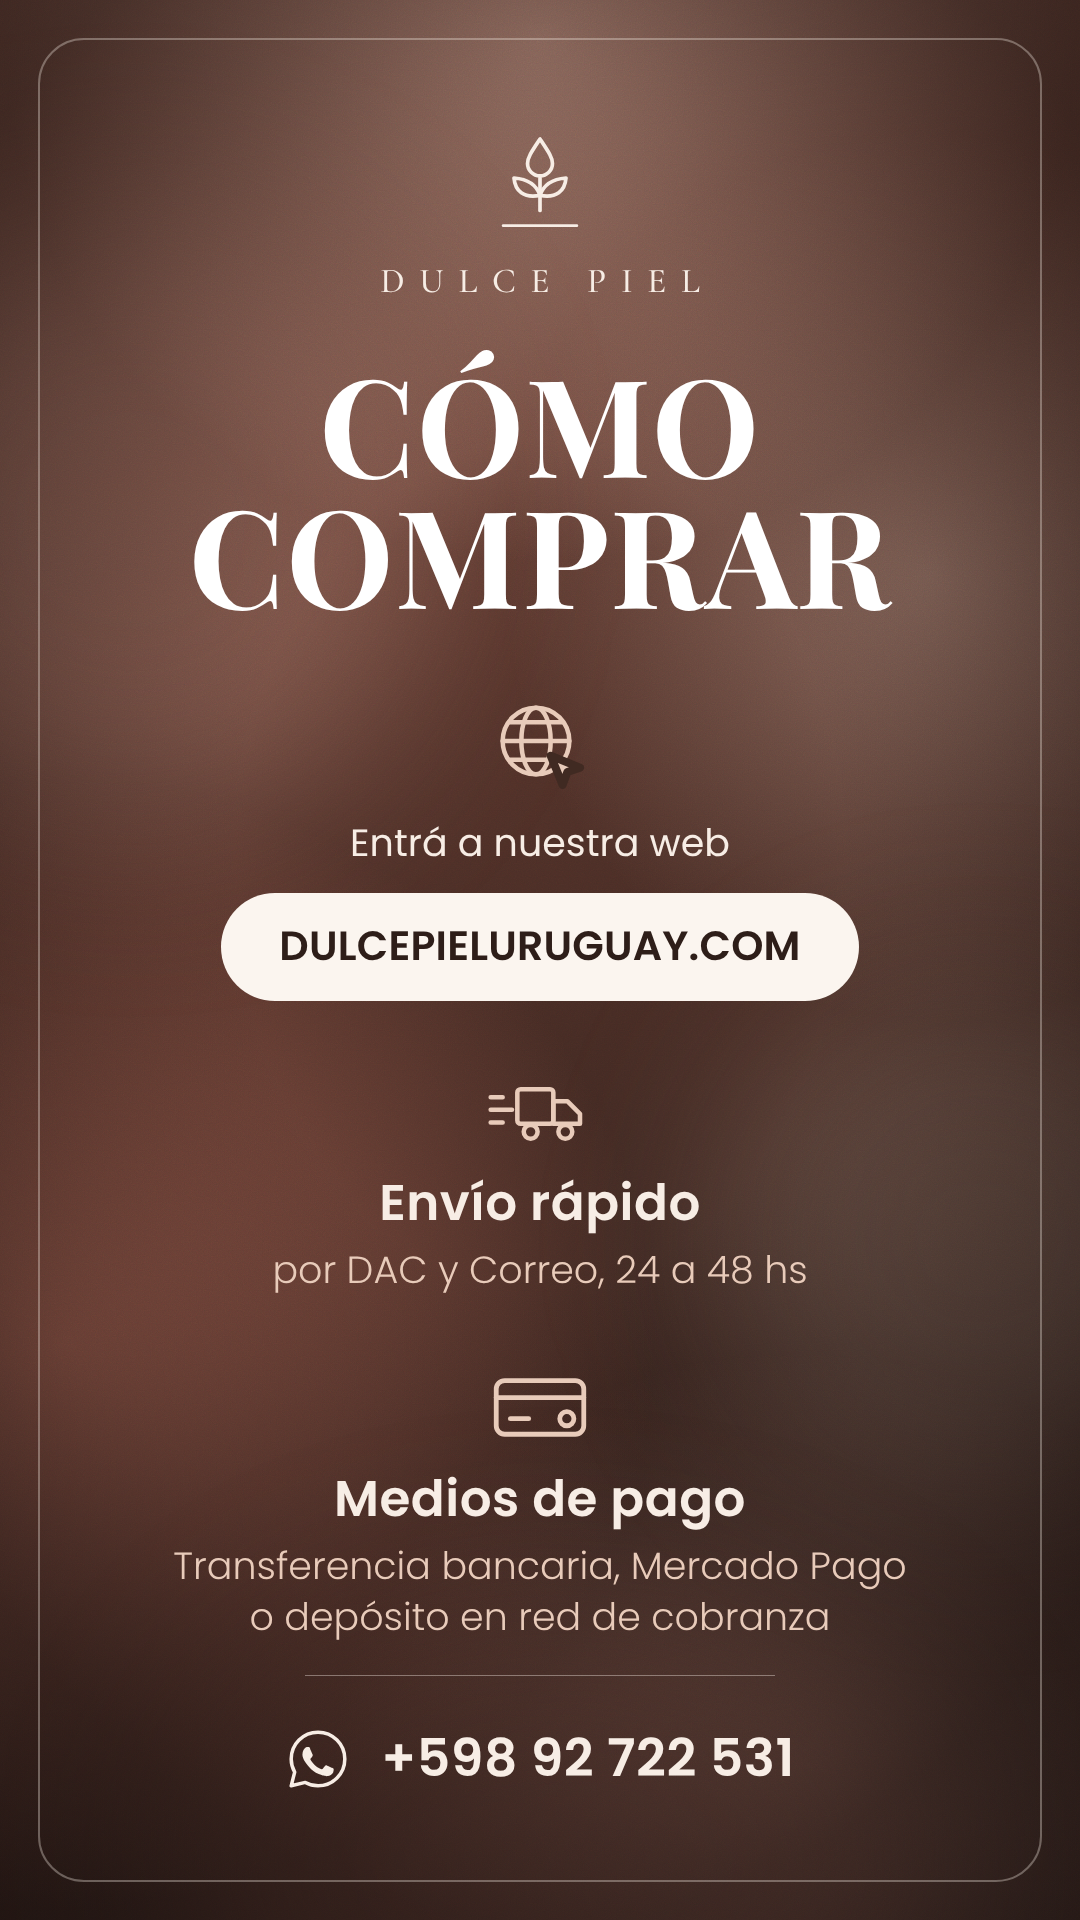
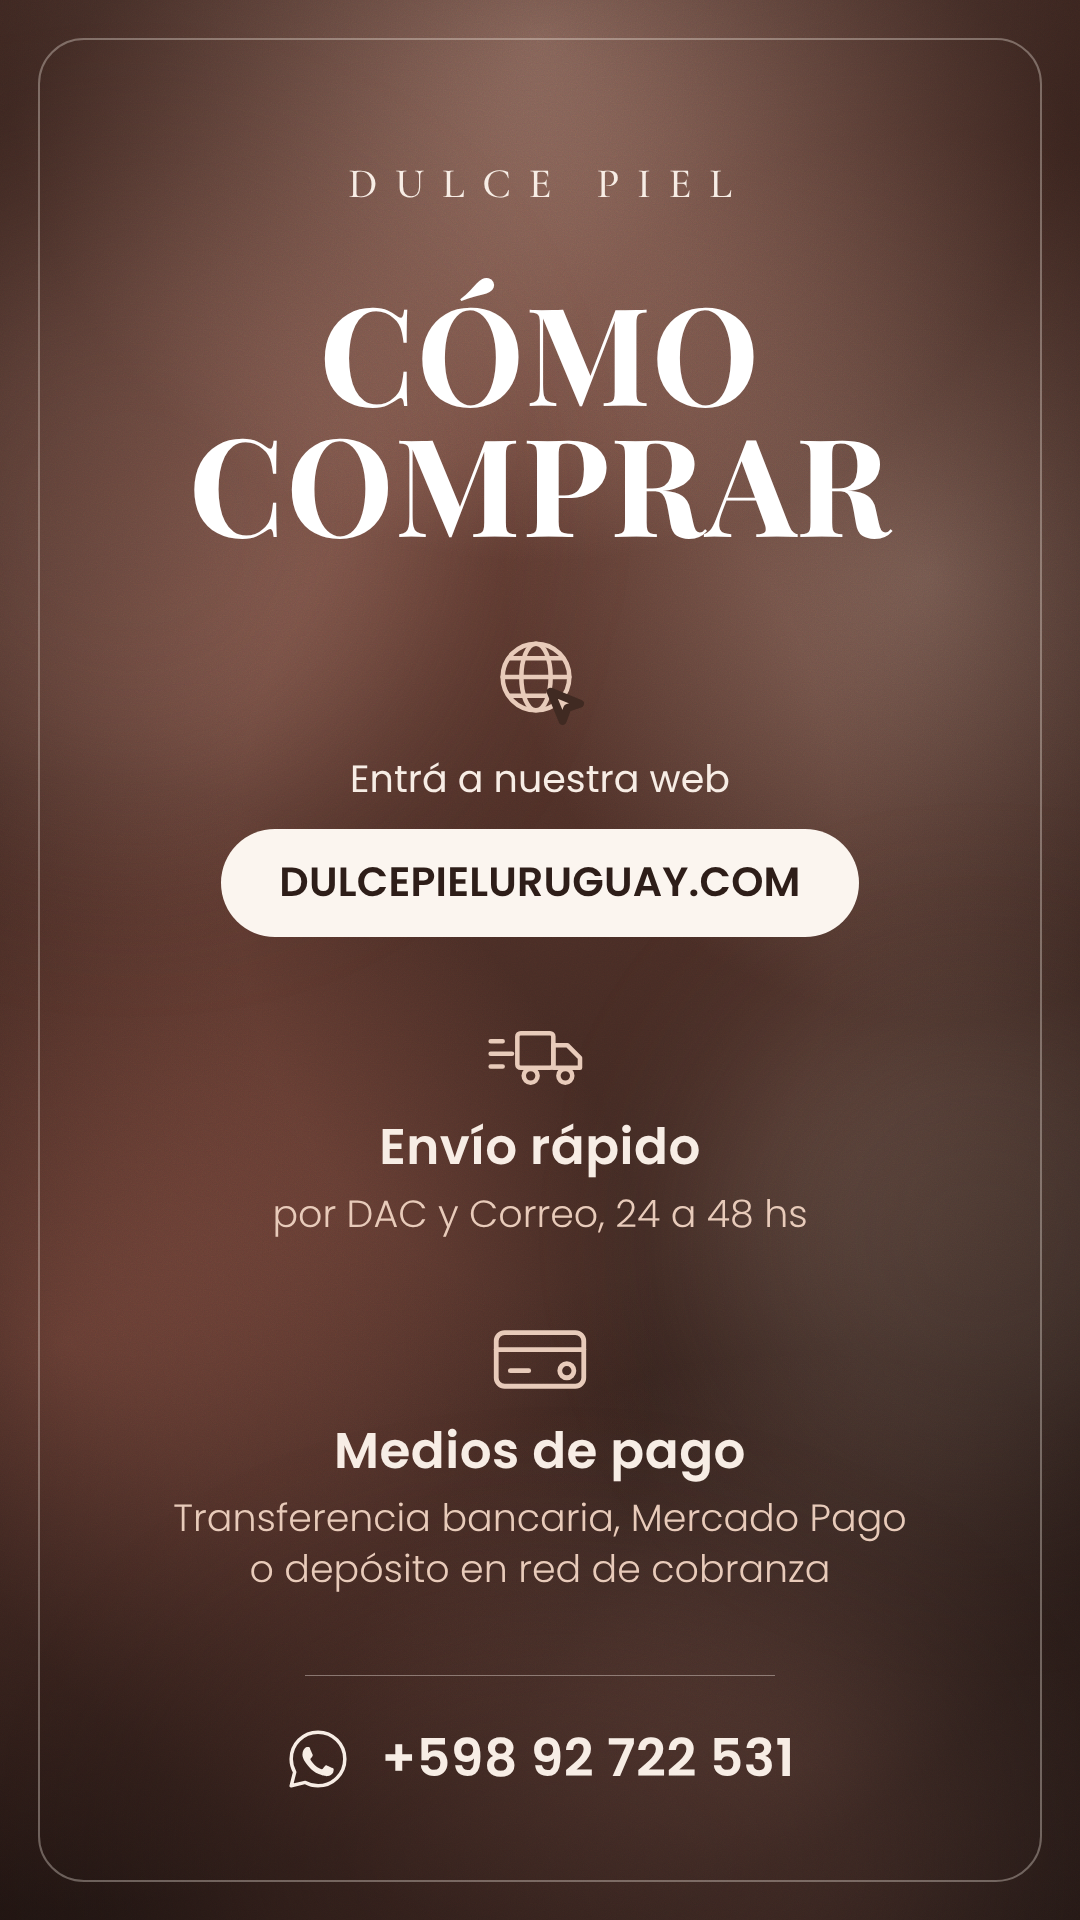
Sacar el isotipo: el logotipo pasa a ser sólo la palabra Dulce Piel
Las piezas quedan con el logotipo tipográfico, sin el dibujo de gota sobre
hojas. Se reequilibró el aire de arriba en las tres piezas que lo llevaban
(las dos historias y el posteo de feed) y se agrandó el cuerpo del logotipo
para que sostenga solo el encabezado.

marca.js queda únicamente con los iconos; el isotipo se elimina en lugar de
dejarlo sin uso.

Claude-Session: https://claude.ai/code/session_01MYHamuh9BYaZ382N2xsAww

Changed region(s): [[0.1528, 0.125, 0.825, 0.8438], [0.4583, 0.0625, 0.5194, 0.125], [0.6417, 0.3125, 0.6722, 0.3438]]

diff --git a/dulce-piel/marca.js b/dulce-piel/marca.js
@@ -1,23 +1,12 @@
 /* ==========================================================================
-   DULCE PIEL — Logotipo e iconografía
+   DULCE PIEL — Iconografía
    --------------------------------------------------------------------------
-   Un solo lugar para el logo y los iconos: cada pieza los pide con
-   <i data-dp="logo"></i> o <i data-dp="camion"></i> y este script los dibuja.
-   Para reemplazar el isotipo por el archivo original de la marca, basta con
-   cambiar el SVG de ISOTIPO.
+   Un solo lugar para los iconos: cada pieza los pide con
+   <i data-dp="camion"></i> y este script los dibuja.
+   El logotipo es sólo tipográfico (la palabra DULCE PIEL, clase .dp-marca en
+   marca.css): no lleva isotipo.
    ========================================================================== */
 (function () {
-  /* Isotipo: gota sobre hojas, con el filete inferior de la marca. */
-  var ISOTIPO = `
-    <svg viewBox="0 0 120 100" fill="none" stroke="currentColor"
-         stroke-width="3.4" stroke-linecap="round" stroke-linejoin="round">
-      <path d="M60 8c-8 12-11.5 17-11.5 22.5a11.5 11.5 0 0 0 23 0C71.5 25 68 20 60 8z"/>
-      <path d="M60 44v30"/>
-      <path d="M60 60c-3-9-11-15-24-16 1 12 9 19 24 16z"/>
-      <path d="M60 60c3-9 11-15 24-16-1 12-9 19-24 16z"/>
-      <path d="M26 88h68" stroke-width="2.6"/>
-    </svg>`;
-
   var ICONOS = {
     /* Globo terráqueo con cursor: "entrá a la web" */
     globo: `
@@ -99,7 +88,7 @@
   function pintar() {
     document.querySelectorAll('[data-dp]').forEach(function (nodo) {
       var clave = nodo.getAttribute('data-dp');
-      nodo.innerHTML = clave === 'logo' ? ISOTIPO : (ICONOS[clave] || '');
+      nodo.innerHTML = ICONOS[clave] || '';
       nodo.style.display = 'block';
       var svg = nodo.querySelector('svg');
       if (svg) { svg.style.width = '100%'; svg.style.height = '100%'; }

diff --git a/dulce-piel/piezas/05-envios-a-todo-el-pais.html b/dulce-piel/piezas/05-envios-a-todo-el-pais.html
@@ -8,16 +8,15 @@
   .contenido {
     position: absolute; inset: 38px;
     display: flex; flex-direction: column; align-items: center;
-    padding: 104px 92px 96px;
+    padding: 132px 92px 96px;
     text-align: center;
   }
-  .logo-iso   { width: 112px; height: 94px; color: var(--dp-crema); }
-  .logo-texto { margin-top: 20px; font-size: 32px; color: var(--dp-crema); }
+  .logo-texto { font-size: 40px; color: var(--dp-crema); }
 
-  .titulo { margin-top: 68px; font-size: 112px; color: #fff; }
+  .titulo { margin-top: 88px; font-size: 112px; color: #fff; }
 
   .tarjeta {
-    margin-top: 88px; width: 100%;
+    margin-top: 96px; width: 100%;
     background: var(--dp-crema-tibia); color: var(--dp-cacao);
     border-radius: 34px; padding: 58px 64px 54px;
     box-shadow: 0 34px 80px rgba(23,15,13,.28);
@@ -32,7 +31,7 @@
   .via  { font-size: 30px; color: rgba(46,30,25,.62); }
   .medios { margin-top: 12px; font-size: 56px; font-weight: 700; letter-spacing: .04em; }
 
-  .promesa   { margin-top: 80px; font-size: 52px; font-weight: 700;
+  .promesa   { margin-top: 88px; font-size: 52px; font-weight: 700;
                letter-spacing: .045em; text-indent: .045em; text-transform: uppercase; }
   .promesa-2 { margin-top: 16px; font-size: 38px; font-weight: 300; color: var(--dp-nude); }
 
@@ -58,7 +57,6 @@
   <div class="dp-marco"></div>
 
   <div class="contenido">
-    <i class="logo-iso" data-dp="logo"></i>
     <div class="dp-marca logo-texto">Dulce Piel</div>
 
     <h1 class="dp-titulo titulo">Envíos a<br>todo el país</h1>

diff --git a/dulce-piel/piezas/01-como-comprar.html b/dulce-piel/piezas/01-como-comprar.html
@@ -8,16 +8,15 @@
   .contenido {
     position: absolute; inset: 38px;
     display: flex; flex-direction: column; align-items: center;
-    padding: 92px 96px 84px;
+    padding: 126px 96px 84px;
     text-align: center;
   }
-  .logo-iso   { width: 130px; height: 109px; color: var(--dp-crema); }
-  .logo-texto { margin-top: 26px; font-size: 35px; color: var(--dp-crema); }
+  .logo-texto { font-size: 42px; color: var(--dp-crema); }
 
-  .titulo { margin-top: 58px; font-size: 136px; color: #fff; }
+  .titulo { margin-top: 80px; font-size: 136px; color: #fff; }
 
   .bloque { display: flex; flex-direction: column; align-items: center; }
-  .bloque + .bloque { margin-top: 76px; }
+  .bloque + .bloque { margin-top: 84px; }
   .icono { color: var(--dp-nude); --dp-cursor-borde: #402A22; }
 
   .etiqueta { margin-top: 28px; font-size: 38px; line-height: 1.2; font-weight: 400; color: var(--dp-crema); }
@@ -49,12 +48,11 @@
   <div class="dp-marco"></div>
 
   <div class="contenido">
-    <i class="logo-iso" data-dp="logo"></i>
     <div class="dp-marca logo-texto">Dulce Piel</div>
 
     <h1 class="dp-titulo titulo">Cómo<br>comprar</h1>
 
-    <div class="bloque" style="margin-top:78px">
+    <div class="bloque" style="margin-top:86px">
       <i class="icono" data-dp="globo" style="width:96px;height:96px"></i>
       <div class="etiqueta dp-apoyo">Entrá a nuestra web</div>
       <div class="dp-pildora pildora">DULCEPIELURUGUAY.COM</div>

diff --git a/dulce-piel/piezas/02-compra-en-la-web.html b/dulce-piel/piezas/02-compra-en-la-web.html
@@ -21,18 +21,17 @@
   .contenido {
     position: absolute; inset: 0;
     display: flex; flex-direction: column; align-items: center;
-    padding: 64px 78px 58px; text-align: center;
+    padding: 92px 78px 58px; text-align: center;
   }
 
-  .logo-iso   { width: 96px; height: 80px; color: var(--dp-rosa); }
-  .logo-texto { margin-top: 16px; font-size: 40px; color: var(--dp-cacao); }
+  .logo-texto { font-size: 48px; color: var(--dp-cacao); }
 
   .adorno { display: flex; align-items: center; gap: 16px; margin-top: 22px; }
   .adorno i { display: block; width: 118px; height: 1px; background: rgba(156,95,81,.45); }
   .adorno b { display: block; width: 9px; height: 9px; background: var(--dp-dorado);
               transform: rotate(45deg); }
 
-  .antetitulo { margin-top: 34px; font-size: 42px; font-weight: 500;
+  .antetitulo { margin-top: 42px; font-size: 42px; font-weight: 500;
                 letter-spacing: .34em; text-indent: .34em; text-transform: uppercase; }
   .titulo     { margin-top: 6px; font-family: var(--dp-font-display); font-weight: 700;
                 font-style: italic; font-size: 132px; line-height: 1.02;
@@ -100,7 +99,6 @@
   <div class="dp-grano" style="opacity:.10"></div>
 
   <div class="contenido">
-    <i class="logo-iso" data-dp="logo"></i>
     <div class="dp-marca logo-texto">Dulce Piel</div>
     <div class="adorno"><i></i><b></b><i></i></div>
 

diff --git a/dulce-piel/README.md b/dulce-piel/README.md
@@ -1,8 +1,8 @@
 # Dulce Piel — Piezas de Instagram
 
 Las mismas cinco piezas de Rancho Doble, rehechas con identidad propia de
-Dulce Piel: otro logotipo, otra paleta y otras tipografías, con la misma
-estructura y jerarquía de información.
+Dulce Piel: logotipo tipográfico, otra paleta y otras tipografías, con la
+misma estructura y jerarquía de información.
 
 ## Piezas
 
@@ -61,8 +61,8 @@ Las tres son de Google Fonts (SIL Open Font License 1.1) y están incluidas en
 
 - **Colores**: `marca.css`, bloque `:root`. Cambiar una variable cambia las
   cinco piezas.
-- **Logotipo**: `marca.js`, constante `ISOTIPO`. El isotipo actual (gota sobre
-  hojas con filete) es un dibujo hecho para estas piezas; si existe el archivo
-  original de la marca, se pega ese SVG ahí y se propaga solo.
+- **Logotipo**: es sólo tipográfico, la palabra `Dulce Piel` con la clase
+  `.dp-marca` (definida en `marca.css`). No lleva isotipo. Para cambiar cuerpo,
+  peso o interletrado se toca `.dp-marca` y `--dp-marca-tracking`.
 - **Textos y teléfono**: están escritos en cada HTML de `piezas/`, en texto
   plano.
